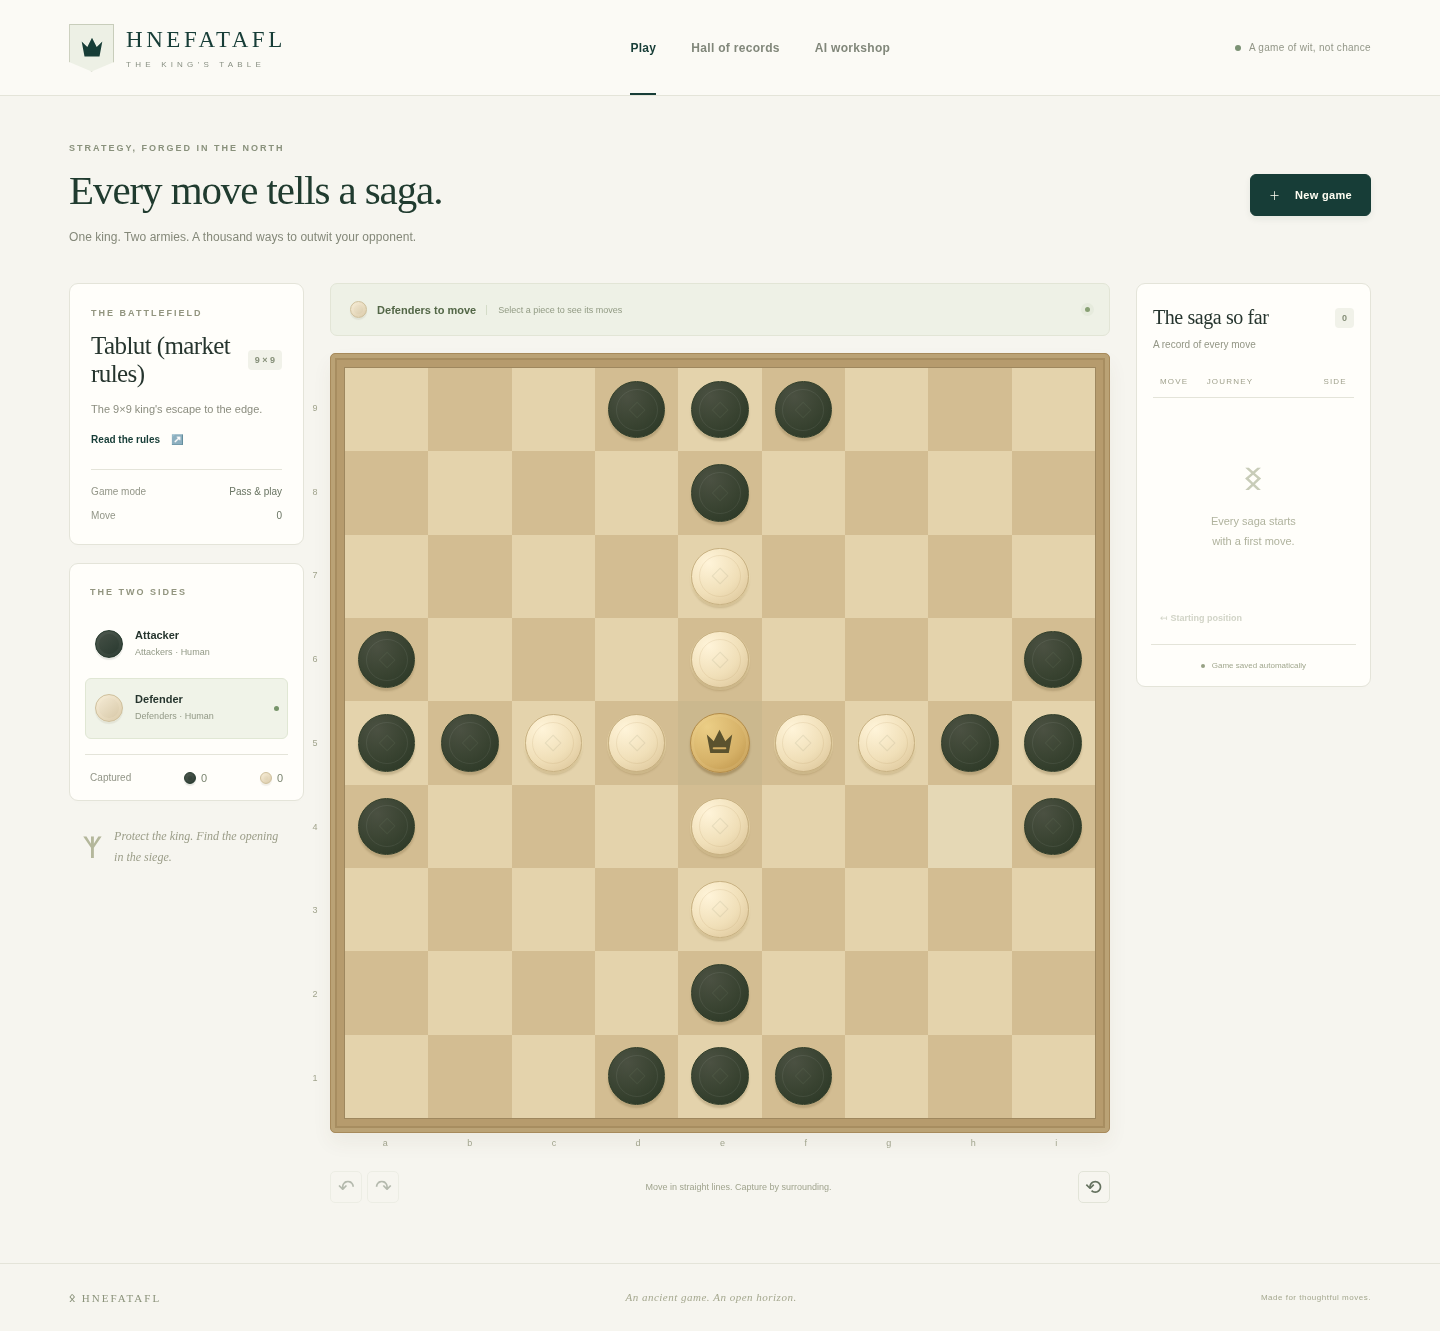
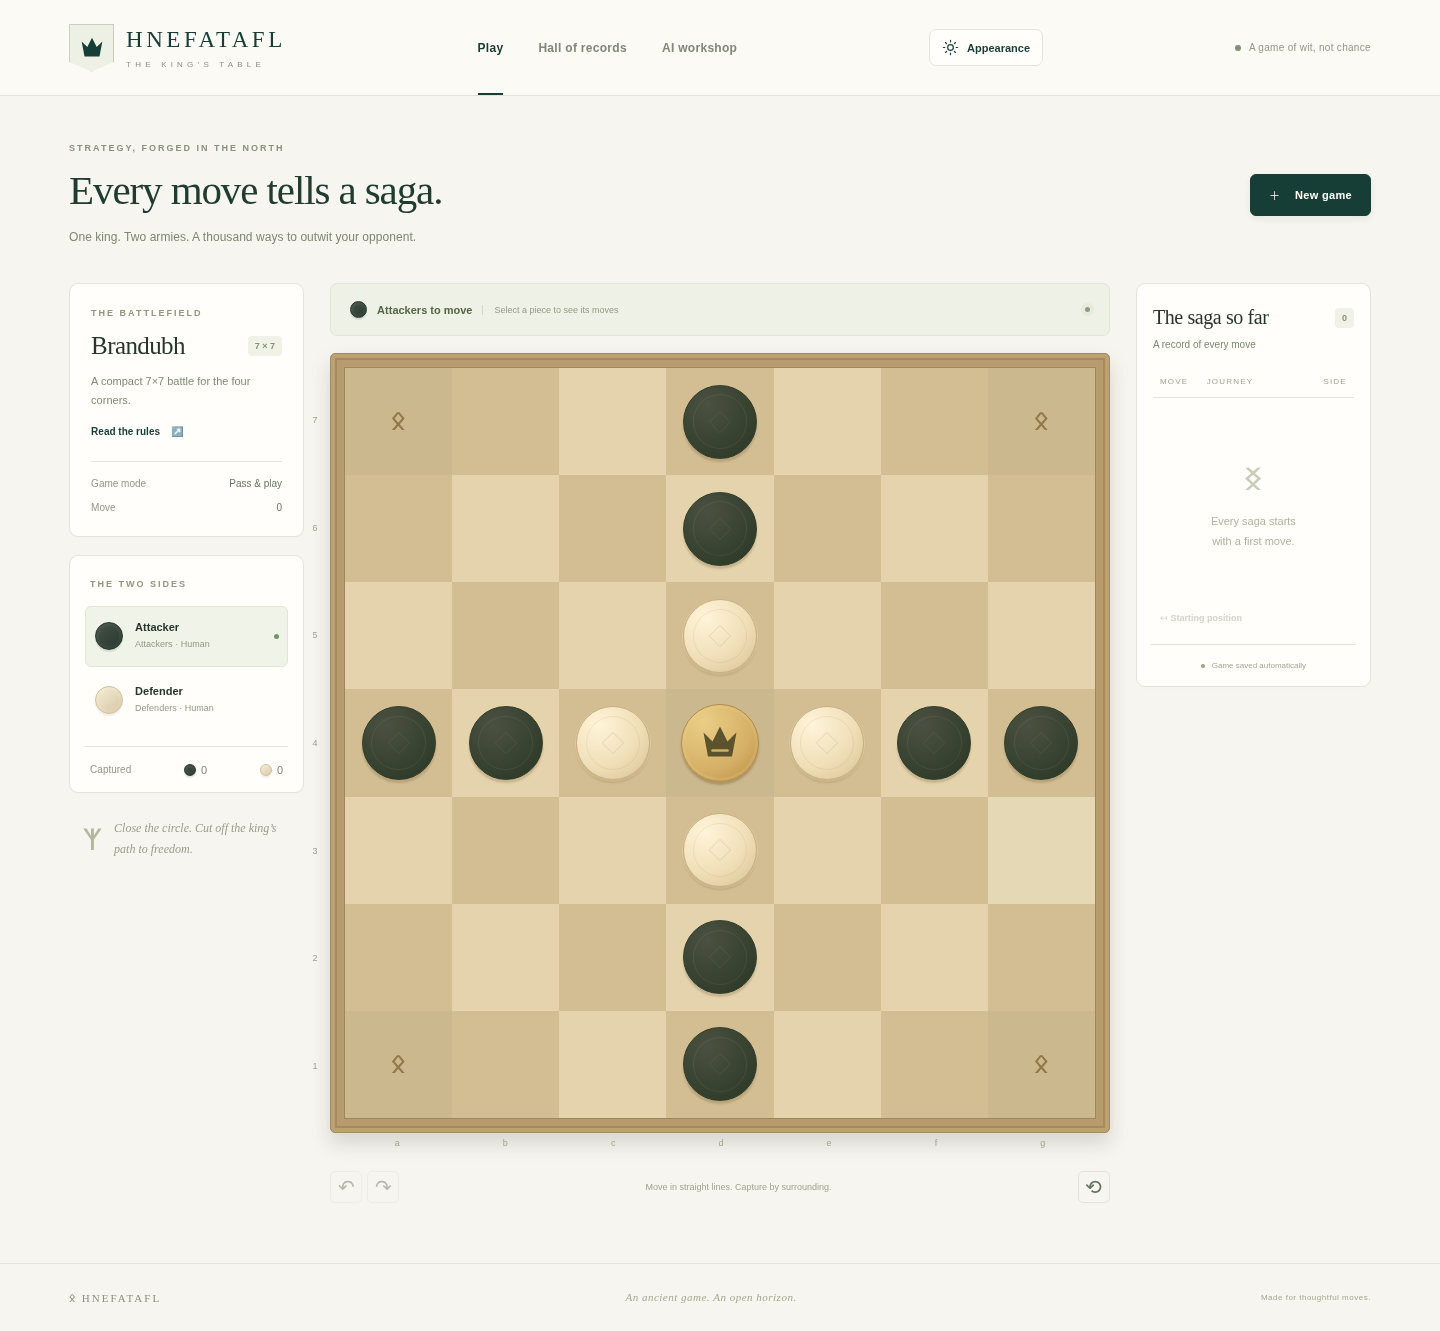
Document personalization and validate the v0.5.0 upgrade

diff --git a/docs/PERSONALIZATION.md b/docs/PERSONALIZATION.md
@@ -1,0 +1,84 @@
+# Records, collections and appearance
+
+## Human profiles and history
+
+Each human side in **New game** has a player selector. Choose an existing profile
+or select the new-player option and enter a name. Switching to a new name clears
+the previous profile ID; a dropdown choice identifies the player by ID, not just name.
+
+Delete profiles in **Hall of records → Local players**. The confirmation explains
+that existing history remains. Deletion removes the profile from new-game selectors;
+saved games, results, replay, name and stable historical identity remain. A later
+profile using the same display name is a separate identity. Existing saved games
+can still be viewed and played. Starting another game from a record whose player
+was deleted requires choosing active players in a new game.
+
+## AI configurations in the Hall of records
+
+Different effective AI configurations have separate records even when they share
+an opponent name or model. Expand **AI parameters** under a recorded game or AI
+performance row to inspect the actual algorithm and settings: depth, iteration/time
+budget, rollout depth, exploration, temperature, seed, evaluation and model ID as
+applicable. Compact summaries help distinguish opponents before opening details.
+
+Identity uses normalized effective settings, not the order of JSON fields. Omitted
+defaults and equivalent explicit defaults group together; different relevant parameter
+values remain separate. Stale controls for a different algorithm do not create false
+variants. Historical explicit-algorithm games keep their original engine-default
+meaning rather than receiving a profile's different defaults retroactively.
+
+## Models and suggested names
+
+In **AI workshop**, use the name-suggestion button beside the model name to generate
+a Viking-inspired name such as “Astrid Ravenwise”. Suggestions avoid names already
+in the model collection and the current suggestion. You can always edit the name.
+
+Each model card supports export and deletion. Deletion requires confirmation,
+removes the registered inference copy and its model entry, and refreshes the available
+AI choices. Original training checkpoints remain for resumption or re-import. Saved
+game histories and historical model labels remain. A model referenced by an unfinished
+game cannot be deleted while that game still needs it; finish the game first.
+
+Battlefields are consistently ordered by board size: Brandubh 7×7, Tablut 9×9,
+Copenhagen 11×11, in new games, records and training.
+
+## Color, tokens and boards
+
+Open **Appearance** in the application header. The three settings are independent:
+
+| Setting | Choices |
+| --- | --- |
+| Color mode | Follow device, Light, Dark |
+| Token theme | Classic stones, Viking figures, Carved wood |
+| Board theme | Golden oak, Old walnut, Fjord slate |
+
+![Appearance settings with live previews](screenshots/appearance.png)
+
+See the [Viking figures in dark mode](screenshots/dark-vikings.png),
+[carved wood on walnut](screenshots/carved-wood.png), and
+[mobile dark mode](screenshots/mobile.png) for actual rendered examples.
+
+The Viking set renders shield bearers and a crowned king. The carved set uses
+weathered wood grain and carved markings. Side and king distinctions remain visible
+in every theme. Legal destinations, move highlights and keyboard controls keep the
+same behavior. Changing appearance does not change game state or AI parameters.
+
+Preferences are stored in this browser under `hnefatafl-appearance`, not in player
+profiles or the database. Follow-device mode responds to operating-system color
+changes. Invalid saved values fall back to supported defaults. If browser storage is
+unavailable, settings still work for the visit and the dialog reports the limitation.
+Choose Follow device + Classic stones + Golden oak to return to the defaults.
+
+## Adding another theme
+
+`frontend/src/appearanceConfig.ts` defines the typed catalogs and allowed preferences.
+Add a token catalog entry and a corresponding renderer in `frontend/src/Tokens.tsx`,
+then supply its visual treatment in `appearance.css`. Token previews use the same
+renderer as the board, so one addition supplies both. Preserve `A`, `D` and `K`
+distinctions and leave the board's accessible coordinate/piece labels intact.
+
+For another board, add an entry to `BOARD_THEMES` with the existing palette keys:
+light/dark squares, special-square variants, frame/rim/inner/edge, runes, selected
+square/ring, last move and legal destination. The provider translates these to
+`--board-*` CSS variables. Board and token catalogs are independent of each other
+and of the rulesets. Test new combinations in both color modes and at phone sizes.

diff --git a/docs/releases/v0.5.0.md b/docs/releases/v0.5.0.md
@@ -1,0 +1,68 @@
+## Milestone: Personal tables and inspectable opponent records
+
+Players can now customize the table, manage model/player collections and compare
+AI configurations without losing recorded history.
+
+### Added
+
+- Model deletion from AI workshop cards, with confirmation and immediate selection
+  refresh. Original training checkpoints, completed histories and model labels remain.
+- Human-player deletion from the Hall of records, preserving stable historical
+  identities, names, results and replay while hiding profiles from future selection.
+- One clear human-player dropdown per side, with existing profiles and a new-player
+  option that correctly clears a previously selected ID.
+- Separate AI records keyed by normalized effective settings, including relevant
+  algorithm budgets, depth, exploration, temperature, seed, evaluation and model.
+- Expandable AI parameters and compact summaries in both recorded games and
+  performance rows. Legacy omitted defaults retain their original meaning.
+- Viking-inspired model-name suggestions that avoid existing/current names.
+- Consistent 7×7, 9×9, 11×11 battlefield order in new games, records and training.
+- Persistent Light, Dark and Follow device appearance modes, with live previews.
+- Independent token themes: Classic stones, illustrated Viking shield bearers and
+  crowned king, and weathered carved wooden pieces.
+- Independent board themes: Golden oak, Old walnut and Fjord slate. Typed catalogs
+  and shared renderers support adding more sets without changing rules.
+
+### Integrity and behavior
+
+- Model deletion blocks unfinished games that still need its weights. Completed
+  games remain replayable; deleted weights cannot generate a new continuation.
+- A deleted human name can be reused by a new profile with a new ID. Old history
+  stays attached to the original identity. Restarting a retired setup asks for active
+  players/models in a new game instead of silently reviving them.
+- Catalog changes serialize with new game creation; registry deletion is locked,
+  atomic and preserves original job files. Historical model metadata is retained.
+- Appearance choices are browser-local and independent of game/AI parameters.
+  Invalid preferences fall back safely; blocked storage permits visit-only settings.
+
+### Validation
+
+- **196 Python tests**, **14 frontend unit tests**, and **10 real-API browser checks
+  passed**. Two redundant mobile training checks are deliberately skipped; actual
+  training/model deletion runs on desktop, and mobile gameplay/records/themes run.
+- Regression coverage includes deletion/new-game races, schema migration/repeated
+  startup, retained legal replay, legacy model names, normalized parameter variants,
+  dropdown identity clearing, confirmation cancel/error paths and name collisions.
+- Browser checks verify actual figure artwork and board colors, persisted choices,
+  device color-scheme changes, a legal move after theming, and mobile overflow.
+- Ruff/Prettier, mypy/TypeScript and the production build pass.
+- Test collection isolates default application storage; production restart preserves
+  existing game records exactly and serves the new compiled interface.
+
+### Update and migration
+
+Stop the service and back up the whole data directory before updating. Startup
+automatically upgrades SQLite schema 1 to 2 by adding player tombstones and a
+metadata-only model-history table; existing game records and checkpoint files remain.
+The upgrade is repeatable. Restore a consistent pre-upgrade backup if rolling back
+to code that does not understand deleted-player tombstones.
+
+```sh
+make install
+make build
+bash scripts/start.sh
+```
+
+Use **Appearance** in the header for themes, **Hall of records** for profiles and
+opponent settings, and **AI workshop** for suggested names and model deletion.
+See `docs/PERSONALIZATION.md` for screenshots and theme extension points.

diff --git a/docs/VALIDATION.md b/docs/VALIDATION.md
@@ -6,13 +6,13 @@ hash-locked CPU dependency environment. Tests use isolated temporary persistence
 | Capability | Evidence |
 | --- | --- |
 | Three engines | 61 source-specific tests: layouts, movement, captures, special squares, royal captures, Copenhagen shieldwalls/encirclement/forts, outcomes, serialization and replay |
-| AI, models and training | 86 tests: real baseline/alpha-beta/MCTS/neural full games in every variant, actual updates and tensor-only compatible imports |
+| AI, models and training | 95 tests: real baseline/alpha-beta/MCTS/neural full games in every variant, actual updates, tensor-only compatible imports and atomic model deletion |
 | Exact resumption | Split CPU training matches uninterrupted weights exactly; an earlier best model survives weaker later iterations and moving/deleting its original directory |
 | Optimization | Actual Optuna trials, persisted study resumption, evaluation-based objectives and exported best configuration |
-| API and persistence | 26 tests: real moves, durable replay, optimistic racing-writer conflicts, restart preservation, statistics/rates, malformed input rejection and controlled model paths |
+| API and persistence | 40 tests: real moves, durable replay, racing-writer conflicts, retained deletion history, canonical AI variants, schema upgrades, deletion/new-game races, statistics/rates and controlled model paths |
 | Worker lifecycle | Actual subprocess training/resumption/export/import/neural moves, optimization-study resumption, health requests during training, cancellation/exit/reaping and shutdown cleanup |
-| Browser unit flows | 5 Vitest tests, including legal interaction and a stale-request/new-game regression |
-| Browser end to end | 5 passed desktop/mobile Chromium checks; 1 duplicate mobile training check intentionally skipped |
+| Browser unit flows | 14 Vitest tests, including legal interaction, stale requests, profile selection/deletion, model confirmations, AI parameters, sorting, name suggestions and appearance persistence |
+| Browser end to end | 10 passed desktop/mobile Chromium checks; 2 duplicate mobile training checks intentionally skipped |
 | Quality/build | Ruff and Prettier formatting/lint, mypy, TypeScript checks and production Vite build |
 
 Browser tests use real API services and cover Tablut interaction, undo/redo, rules,
@@ -21,6 +21,20 @@ compatible model selection and a neural move. They assert no horizontal mobile
 overflow. Desktop and mobile additionally complete a real Brandubh AI game,
 verify the disabled final board and archive outcome, and reopen the saved result.
 Screenshots were captured from the running application.
+
+The v0.5 full suite passes **196 Python tests**, **14 frontend tests** and **10 browser
+checks**. New browser flows exercise separate completed AI variants and readable
+parameters, human selection/deletion with retained history, Viking suggestions,
+actual CPU training followed by model deletion, and theme changes followed by reload
+and a legal move. Appearance assertions check actual SVG artwork and computed colors,
+not only preference attributes. Follow-device mode responds to color-scheme changes.
+The redundant mobile training checks are skipped; mobile records, gameplay and
+appearance flows run.
+
+Pytest isolates the module-level ASGI application's data directory before test
+collection. A subprocess collection check verifies that an explicitly supplied
+user-data directory is left untouched. Production restart serves v0.5/schema 2;
+existing saved game JSON, IDs and versions match their pre-restart digest exactly.
 
 The documented CLI smoke training and two-trial optimization configurations were
 executed. One smoke training run generated one self-play game, performed actual

diff --git a/README.md b/README.md
@@ -4,7 +4,7 @@ Play Tablut, Brandubh and Copenhagen in a responsive browser application. Challe
 search opponents, watch computers compete, or train and import a neural strategist
 using real self-play learning.
 
-![Tablut in the desktop application](docs/screenshots/desktop.png)
+![Brandubh in the desktop application](docs/screenshots/desktop.png)
 
 ## Features
 
@@ -13,6 +13,8 @@ using real self-play learning.
   playback speed, pause, undo/redo, restart, captured pieces and in-game rules.
 - Tactical baseline, iterative alpha-beta, Monte Carlo tree search and neural search.
 - SQLite histories, stable local profiles and filtered player/AI statistics and ratios.
+- Separate records and inspectable settings for each effective AI parameter configuration.
+- Light/dark/device appearance, independent board themes, Viking figures and carved-wood tokens.
 - Training workshop and CLI: actual PyTorch self-play updates, evaluation, safe model
   import/export, cancellation, exact CPU checkpoint resumption and Optuna studies.
 - CPU operation and configurable CUDA/MPS support, with automatic device detection.
@@ -55,6 +57,17 @@ The server validates every move and rejects stale concurrent updates.
 an earlier move preserves the recorded result and future moves; making a different
 move branches the local history. Restart creates a new game, preserving the old one.
 
+New-game human selectors list existing players or let you enter a new name. Delete
+a player in **Hall of records** to remove it from future selections while retaining
+its historical identity, results and replay. AI rows and recorded games have
+expandable parameter details; depth, search budgets, seed and other effective settings
+distinguish AI records. Battlefields are ordered 7×7, 9×9, 11×11 throughout the UI.
+
+Open **Appearance** in the header to choose light/dark/device mode, Classic stones,
+Viking figures or Carved wood tokens, and Golden oak, Old walnut or Fjord slate boards.
+Choices are independent and saved in this browser. See
+[PERSONALIZATION.md](docs/PERSONALIZATION.md) for settings and theme extension points.
+
 Rules: [Tablut market rules](docs/rules/tablut.md), [Brandubh](docs/rules/brandubh.md),
 [Copenhagen](docs/rules/copenhagen.md). The linked Tablut leaflet starts defenders,
 uses sandwich king capture and any-edge escape. Other Tablut reconstructions differ.
@@ -64,6 +77,9 @@ uses sandwich king capture and any-edge escape. Other Tablut reconstructions dif
 In **AI workshop**, choose a ruleset and **Quick check** for a tiny real training
 job. Inspect progress and evaluation, resume a checkpoint, or export/import a model.
 Select **Neural network** and a compatible model when configuring a new opponent.
+Use the name-suggestion button to generate a Viking name. Model cards offer deletion
+with confirmation: saved game history and original training checkpoints are retained.
+Models referenced by unfinished games must remain available until those games finish.
 The CLI requires no Python programming:
 
 ```sh
@@ -95,7 +111,8 @@ npm run test:e2e
 `make check` runs Ruff/Prettier, Python/TypeScript type checks, pytest, Vitest and
 the production build. Playwright uses the actual backend on isolated ports
 8001/4173 for desktop/mobile gameplay and real training followed by neural play.
-One duplicate mobile training test is deliberately skipped; mobile gameplay runs.
+Two duplicate mobile training checks are deliberately skipped; mobile gameplay and
+appearance checks run, and actual training/model deletion run on desktop.
 Linux Chromium libraries may need installation on a new host.
 
 See [VALIDATION.md](docs/VALIDATION.md) for evidence and hardware/source limitations.

diff --git a/PROGRESS.md b/PROGRESS.md
@@ -11,9 +11,20 @@ See GitHub Releases and `docs/releases/` for exact evidence and limitations.
 - [x] Statistics/usability: replay, profiles, filtered rates and training/model management (`v0.4.0`)
 - [x] Verification: 173 Python tests, 5 frontend unit tests, 5 browser tests, production startup and documentation (`v0.4.0`)
 
-Model-backed full games and safe model import pass on every ruleset. One redundant
-mobile training browser check is deliberately skipped; actual training runs on desktop
-and responsive gameplay runs on mobile. See `docs/VALIDATION.md` for exact evidence.
+## Records and personalization (`v0.5.0`)
+
+- [x] Delete models through the UI while retaining completed history and training checkpoints
+- [x] Separate AI variants by effective parameters and inspect them in records/statistics
+- [x] Select existing humans in new-game dropdowns and delete profiles without losing history
+- [x] Suggest unused Viking model names in the training workshop
+- [x] Order all battlefield selectors by board size
+- [x] Persist light/dark/device mode, classic/Viking/wood tokens and oak/walnut/slate boards
+- [x] Validate additive schema 2 upgrades, deletion races, legacy defaults and retained replay
+- [x] Pass 196 Python, 14 frontend unit and 10 real-API browser checks
+
+Model-backed full games and safe model import pass on every ruleset. Two redundant
+mobile training checks are deliberately skipped; actual training runs on desktop
+and responsive gameplay/appearance run on mobile. See `docs/VALIDATION.md` for evidence.
 
 External verification remains explicit: CUDA/MPS hardware execution, the inaccessible
 Copenhagen primary rule page, and target-host systemd/proxy deployment. The selected

diff --git a/ARCHITECTURE.md b/ARCHITECTURE.md
@@ -53,3 +53,23 @@ checks. Safe tensor-only loading and validated architecture metadata avoid arbit
 Python object deserialization. Functional training tests establish that the pipeline
 works; model strength requires separate, sufficiently sized evaluation tournaments.
 CUDA support does not establish that CUDA was tested on this development host.
+
+## History and presentation configuration
+
+AI record identity is a deterministic digest of normalized effective parameters,
+including algorithm, relevant budgets, randomness and model identity. New sessions
+store resolved parameters and display-name snapshots. Legacy explicit-algorithm
+sessions retain the defaults their original engine used; profile defaults are not
+retroactively applied. Variant statistics expose configuration metadata for inspection.
+
+SQLite schema 2 adds player tombstones and archived model metadata. Deleting a player
+hides it from selection while preserving its ID and saved history; reusing the same
+display name creates a new identity. Deleting an available model removes its registry
+copy and entry, retaining historical labels and original training outputs. Catalog
+reference creation and deletion are serialized in the supported single API process.
+
+Appearance is browser-local state, separate from game configuration. A typed catalog
+defines color modes, board palettes and token sets; shared token rendering is used
+for actual pieces and previews. The provider resolves device color preferences and
+persists choices. New artwork and palettes can be added without changing game rules
+or persistence. See `docs/PERSONALIZATION.md`.

diff --git a/docs/DEPLOYMENT.md b/docs/DEPLOYMENT.md
@@ -40,6 +40,12 @@ variables; it is an example, not an automatically loaded configuration file.
 Do not commit data directories, `.env` files or model weights.
 
 Database schema initialization runs at server startup and records a schema version.
+Version 0.5 upgrades the original schema 1 to schema 2 automatically and additively:
+it adds player deletion timestamps and historical model metadata. Existing game JSON,
+stable player IDs, move versions and model/training files are preserved. Startup can
+repeat the migration safely. Deleted players stay hidden under the new application;
+rolling back to old code does not understand those tombstones, so restore a consistent
+pre-upgrade data backup when rolling back.
 Before updates, stop the service and archive the entire data directory. SQLite WAL
 files must not be copied independently while writes continue. A consistent backup
 can also be made with SQLite's backup API. Test restoration on an isolated directory.

diff --git a/docs/AI.md b/docs/AI.md
@@ -79,6 +79,15 @@ commands documented in [TRAINING.md](TRAINING.md). Selecting a trained opponent
 in Human vs AI or AI vs AI uses the same engine and legal-action filtering as the
 traditional opponents.
 
+## Recorded configurations
+
+The Hall of records separates effective AI configurations, including relevant search
+budgets, depth, exploration, temperature, random seed, evaluation and model identity.
+Expand an AI performance row or recorded game's parameter details to inspect these
+settings. Equivalent omitted/explicit defaults group together, and unrelated stale
+controls do not split the same opponent. Historical explicit-algorithm configurations
+retain the engine defaults they originally used. See [PERSONALIZATION.md](PERSONALIZATION.md).
+
 ## Extending the player registry
 
 Implement a pure move-selection function against `State`, dispatch it through
